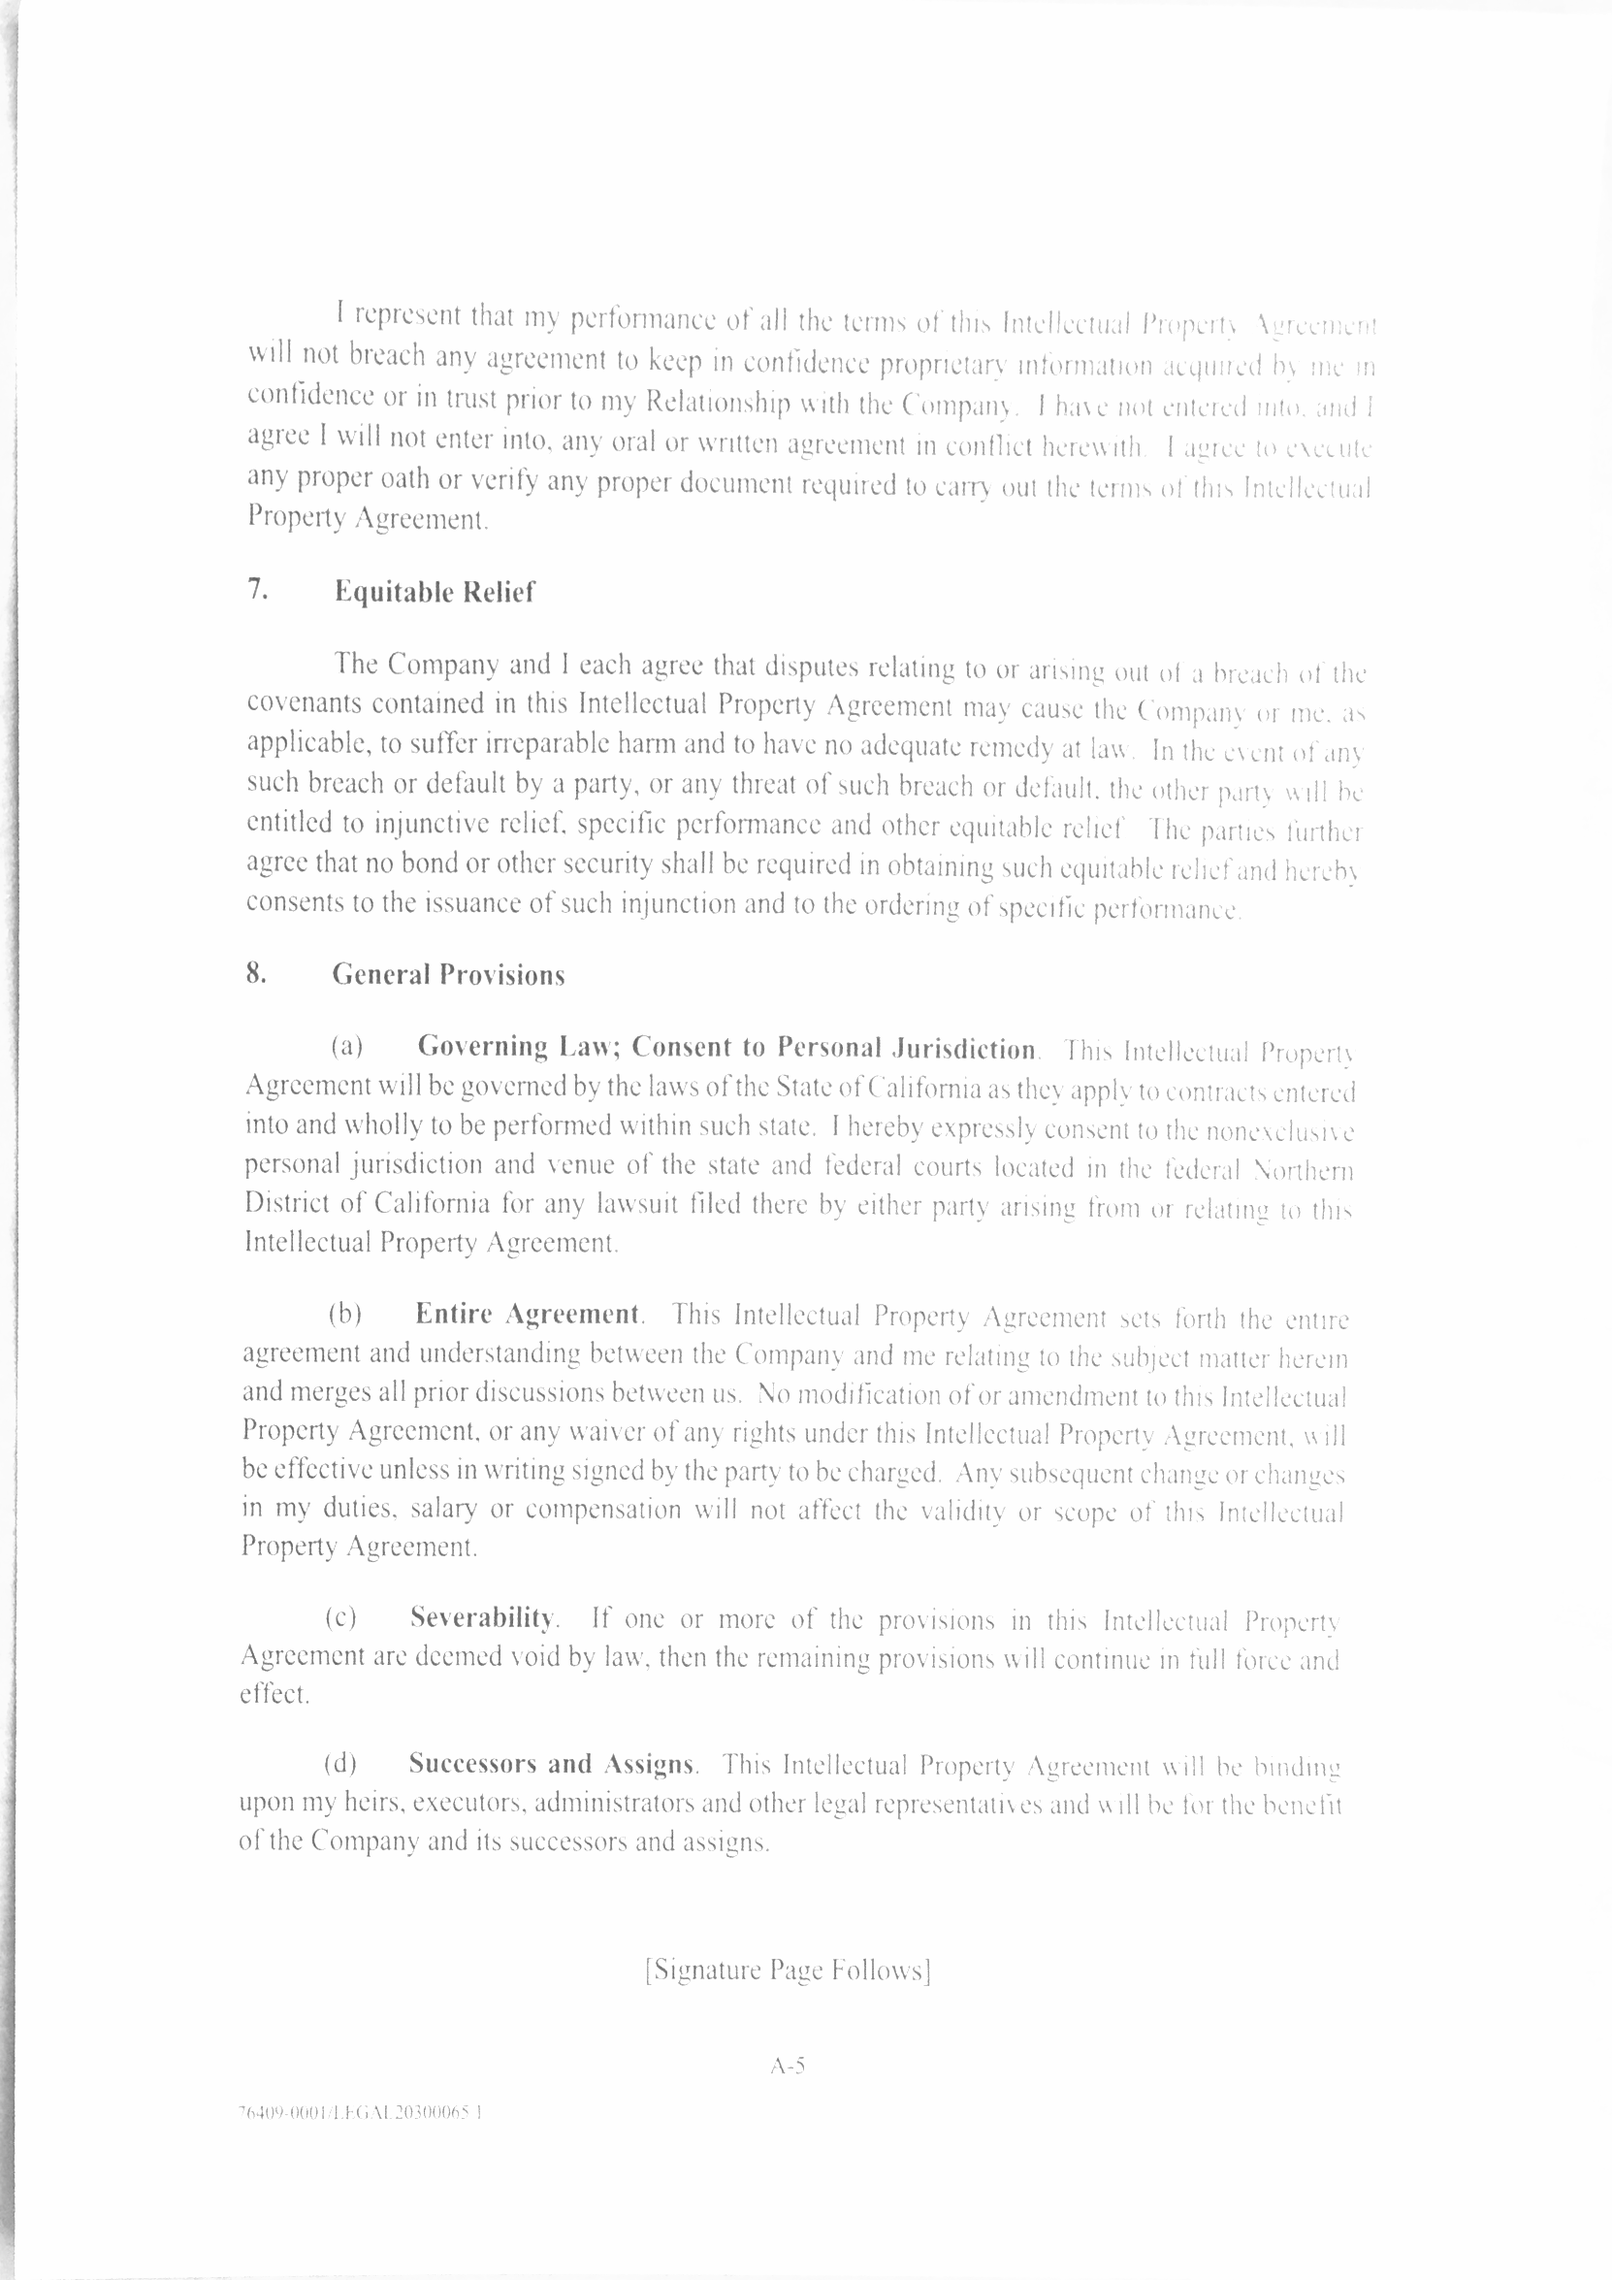
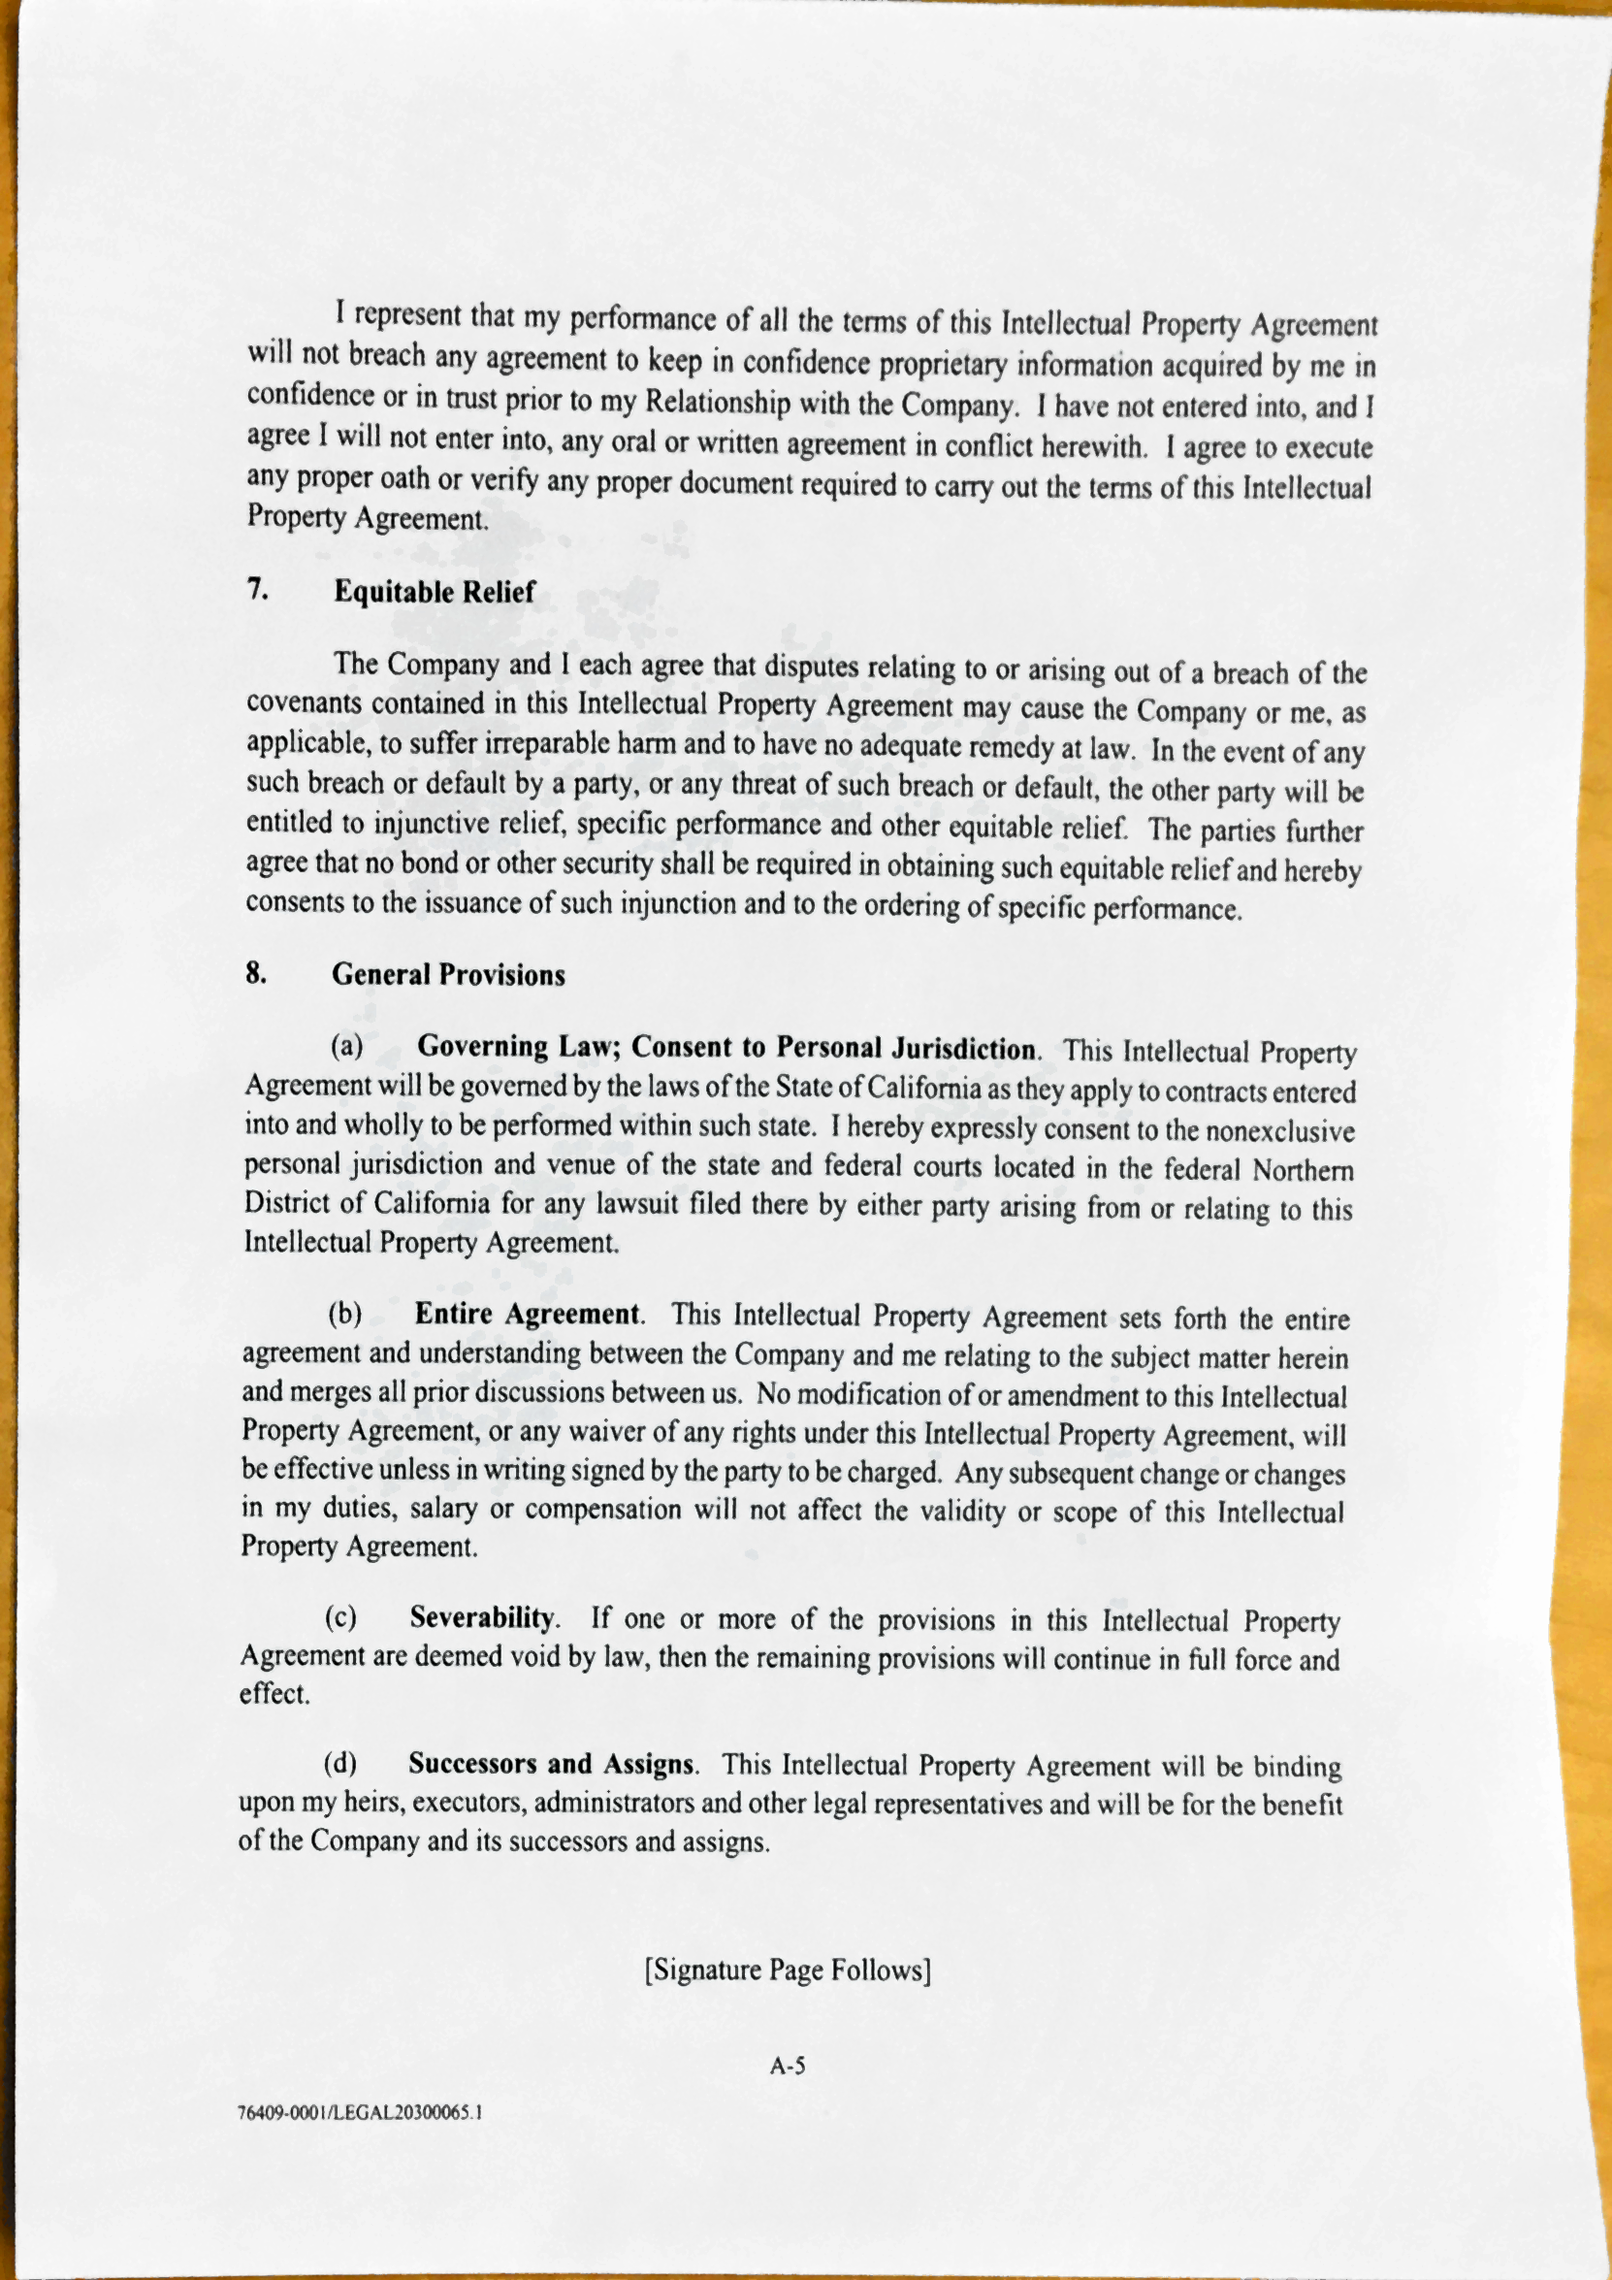
Tune whiteboard filter and add whiteboard samples

diff --git a/scripts/filter_asset_pipeline.py b/scripts/filter_asset_pipeline.py
@@ -17,8 +17,8 @@ FILTERS = {
         "pipeline": "document_bw",
     },
     "whiteboard": {
-        # brightness(1.3) contrast(1.6) saturate(0)
-        "ops": [("brightness", 1.3), ("contrast", 1.6), ("saturate", 0.0)],
+        # flat-field correction + board whitening + marker color preservation
+        "pipeline": "whiteboard",
     },
     "vivid": {
         # saturate(2) contrast(1.2)
@@ -850,6 +850,113 @@ def apply_magic_pipeline(cropped: np.ndarray) -> tuple[np.ndarray, np.ndarray]:
     return step1_bgr, final_bgr
 
 
+def apply_whiteboard_pipeline(image: np.ndarray) -> np.ndarray:
+    rgb = cv2.cvtColor(image, cv2.COLOR_BGR2RGB)
+    lab = cv2.cvtColor(rgb, cv2.COLOR_RGB2LAB)
+    luminance, a_channel, b_channel = cv2.split(lab)
+
+    illumination = estimate_illumination(luminance)
+    flattened_l = flat_field_correct(luminance, illumination)
+    stretched_l = auto_stretch_luminance(flattened_l)
+    denoised_l = cv2.medianBlur(stretched_l, 3)
+
+    chroma = compute_chroma(a_channel, b_channel)
+    accent_mask = build_accent_mask(denoised_l, a_channel, b_channel)
+    _, medium_chroma_mask = cv2.threshold(chroma, 18, 255, cv2.THRESH_BINARY)
+    _, visible_mask = cv2.threshold(denoised_l, 42, 255, cv2.THRESH_BINARY)
+    accent_mask = cv2.bitwise_or(accent_mask, cv2.bitwise_and(medium_chroma_mask, visible_mask))
+    accent_mask = cv2.morphologyEx(
+        accent_mask,
+        cv2.MORPH_OPEN,
+        cv2.getStructuringElement(cv2.MORPH_ELLIPSE, (3, 3)),
+    )
+    accent_protect_mask = cv2.dilate(
+        accent_mask,
+        cv2.getStructuringElement(cv2.MORPH_ELLIPSE, (3, 3)),
+        iterations=1,
+    )
+    structure_mask = build_structure_mask(denoised_l)
+    _, sauvola_strong = build_sauvola_structure_masks(
+        apply_channel_contrast(denoised_l, 1.22),
+        window_size=35,
+        k=0.16,
+        dynamic_range=128.0,
+    )
+    structure_mask = cv2.bitwise_or(structure_mask, sauvola_strong)
+    structure_mask = cv2.bitwise_or(structure_mask, accent_protect_mask)
+    structure_mask = cv2.medianBlur(structure_mask, 3)
+    structure_mask = cv2.dilate(
+        structure_mask,
+        cv2.getStructuringElement(cv2.MORPH_ELLIPSE, (3, 3)),
+        iterations=1,
+    )
+
+    paper_mask = build_paper_mask(denoised_l, a_channel, b_channel)
+    bright_threshold = max(156, int(np.percentile(denoised_l, 58)))
+    _, bright_mask = cv2.threshold(denoised_l, bright_threshold, 255, cv2.THRESH_BINARY)
+    paper_mask = cv2.bitwise_or(paper_mask, bright_mask)
+    paper_mask = cv2.bitwise_and(paper_mask, cv2.bitwise_not(structure_mask))
+    paper_mask = cv2.bitwise_and(paper_mask, cv2.bitwise_not(accent_protect_mask))
+    paper_mask = cv2.morphologyEx(
+        paper_mask,
+        cv2.MORPH_CLOSE,
+        cv2.getStructuringElement(cv2.MORPH_ELLIPSE, (5, 5)),
+        iterations=2,
+    )
+
+    if int(cv2.countNonZero(paper_mask)) > 0:
+        mean_a = float(cv2.mean(a_channel, mask=paper_mask)[0])
+        mean_b = float(cv2.mean(b_channel, mask=paper_mask)[0])
+    else:
+        mean_a = 128.0
+        mean_b = 128.0
+
+    neutralized_a = np.clip(a_channel.astype(np.float32) - (mean_a - 128.0), 0, 255).astype(np.uint8)
+    neutralized_b = np.clip(b_channel.astype(np.float32) - (mean_b - 128.0), 0, 255).astype(np.uint8)
+
+    muted_a = compress_chroma(neutralized_a, 0.42)
+    muted_b = compress_chroma(neutralized_b, 0.42)
+    accent_a = compress_chroma(neutralized_a, 1.32)
+    accent_b = compress_chroma(neutralized_b, 1.32)
+
+    output_l = blend_toward_value(denoised_l, paper_mask, 250.0, 0.50)
+    output_l = cv2.addWeighted(output_l, 0.68, denoised_l, 0.32, 0.0)
+
+    output_l32 = output_l.astype(np.float32)
+    strong_idx = sauvola_strong > 0
+    output_l32[strong_idx] = np.minimum(
+        output_l32[strong_idx],
+        denoised_l[strong_idx].astype(np.float32) * 0.84,
+    )
+    accent_idx = accent_protect_mask > 0
+    output_l32[accent_idx] = np.minimum(
+        output_l32[accent_idx],
+        denoised_l[accent_idx].astype(np.float32) * 0.92,
+    )
+    output_l = np.clip(output_l32, 0, 255).astype(np.uint8)
+
+    output_a = muted_a.copy()
+    output_b = muted_b.copy()
+    output_a[accent_mask > 0] = accent_a[accent_mask > 0]
+    output_b[accent_mask > 0] = accent_b[accent_mask > 0]
+    output_a[paper_mask > 0] = 128
+    output_b[paper_mask > 0] = 128
+
+    final_lab = cv2.merge([output_l, output_a, output_b])
+    final_rgb = cv2.cvtColor(final_lab, cv2.COLOR_LAB2RGB)
+    final_bgr = cv2.cvtColor(final_rgb, cv2.COLOR_RGB2BGR)
+
+    hsv = cv2.cvtColor(final_bgr, cv2.COLOR_BGR2HSV).astype(np.float32)
+    saturation = hsv[:, :, 1]
+    value = hsv[:, :, 2]
+    vivid_idx = accent_mask > 0
+    saturation[vivid_idx] = np.minimum(saturation[vivid_idx] * 1.38 + 8.0, 255.0)
+    value[vivid_idx] = np.minimum(value[vivid_idx] * 1.05 + 2.0, 255.0)
+    hsv[:, :, 1] = saturation
+    hsv[:, :, 2] = value
+    return cv2.cvtColor(np.clip(hsv, 0, 255).astype(np.uint8), cv2.COLOR_HSV2BGR)
+
+
 def apply_brightness(image: np.ndarray, value: float) -> np.ndarray:
     offset = 255.0 * (value - 1.0)
     result = image.astype(np.float32) + offset
@@ -913,6 +1020,8 @@ def apply_filter(image: np.ndarray, filter_key: str) -> np.ndarray:
     spec = FILTERS[filter_key]
     if spec.get("pipeline") == "document_bw":
         return apply_document_bw_pipeline(image)
+    if spec.get("pipeline") == "whiteboard":
+        return apply_whiteboard_pipeline(image)
     result = image.copy()
     for op_name, op_value in spec["ops"]:
         result = OP_DISPATCH[op_name](result, op_value)

diff --git a/scripts/generate_magic_filter_steps.py b/scripts/generate_magic_filter_steps.py
@@ -20,8 +20,8 @@ def parse_args() -> argparse.Namespace:
     )
     parser.add_argument(
         "--manifest",
-        default="docs/magic-filter-samples.json",
-        help="JSON manifest with source/step1/step2/step3 paths.",
+        default="docs/filter-samples.json",
+        help="JSON manifest with source/step1/magic_step2/magic_step3 paths.",
     )
     parser.add_argument(
         "--only",
@@ -39,8 +39,13 @@ def main() -> None:
 
     for entry in entries:
         step1_path = (repo_root / entry["step1"]).resolve()
-        step2_path = (repo_root / entry["step2"]).resolve()
-        step3_path = (repo_root / entry["step3"]).resolve()
+        step2_rel = entry.get("magic_step2") or entry.get("step2")
+        step3_rel = entry.get("magic_step3") or entry.get("step3")
+        if step2_rel is None or step3_rel is None:
+            raise KeyError(f'{entry["id"]}: missing magic_step2/magic_step3 in manifest entry')
+
+        step2_path = (repo_root / step2_rel).resolve()
+        step3_path = (repo_root / step3_rel).resolve()
 
         step1 = read_image(step1_path)
         step2, step3 = apply_magic_pipeline(step1)

diff --git a/scripts/generate_step0_samples.py b/scripts/generate_step0_samples.py
@@ -19,7 +19,7 @@ def parse_args() -> argparse.Namespace:
     )
     parser.add_argument(
         "--manifest",
-        default="docs/magic-filter-samples.json",
+        default="docs/filter-samples.json",
         help="JSON manifest with source/step0 paths.",
     )
     parser.add_argument(

diff --git a/scripts/generate_step1_aspect_samples.py b/scripts/generate_step1_aspect_samples.py
@@ -20,7 +20,7 @@ def parse_args() -> argparse.Namespace:
     )
     parser.add_argument(
         "--manifest",
-        default="docs/magic-filter-samples.json",
+        default="docs/filter-samples.json",
         help="JSON manifest with step0/step1 paths.",
     )
     parser.add_argument(
